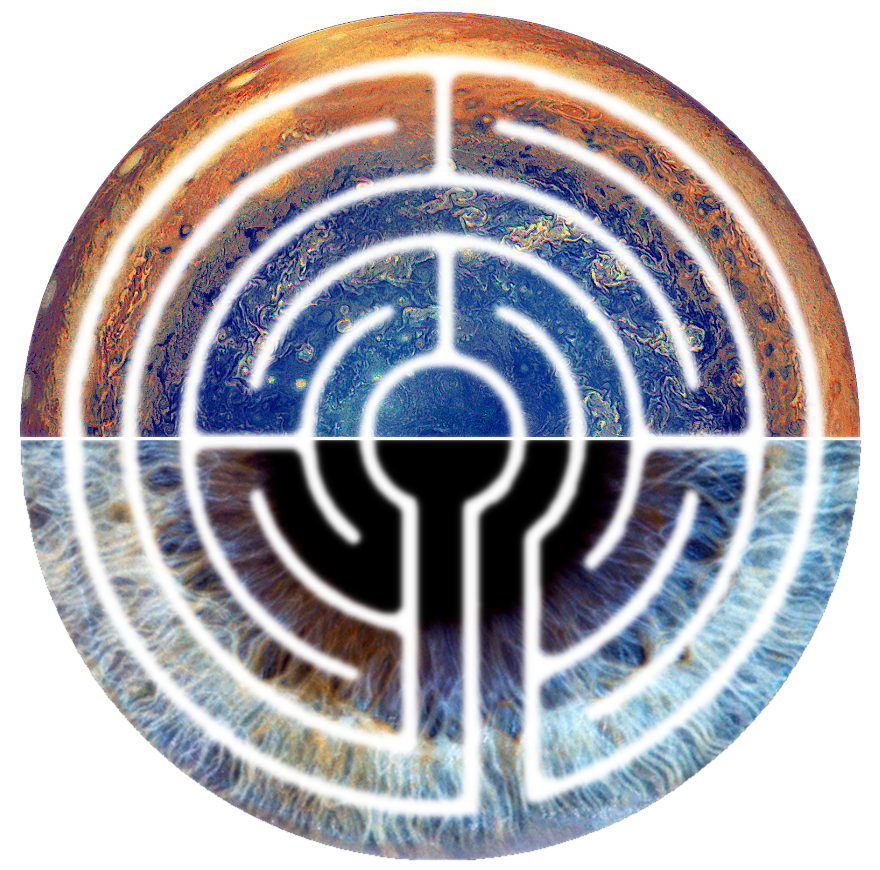
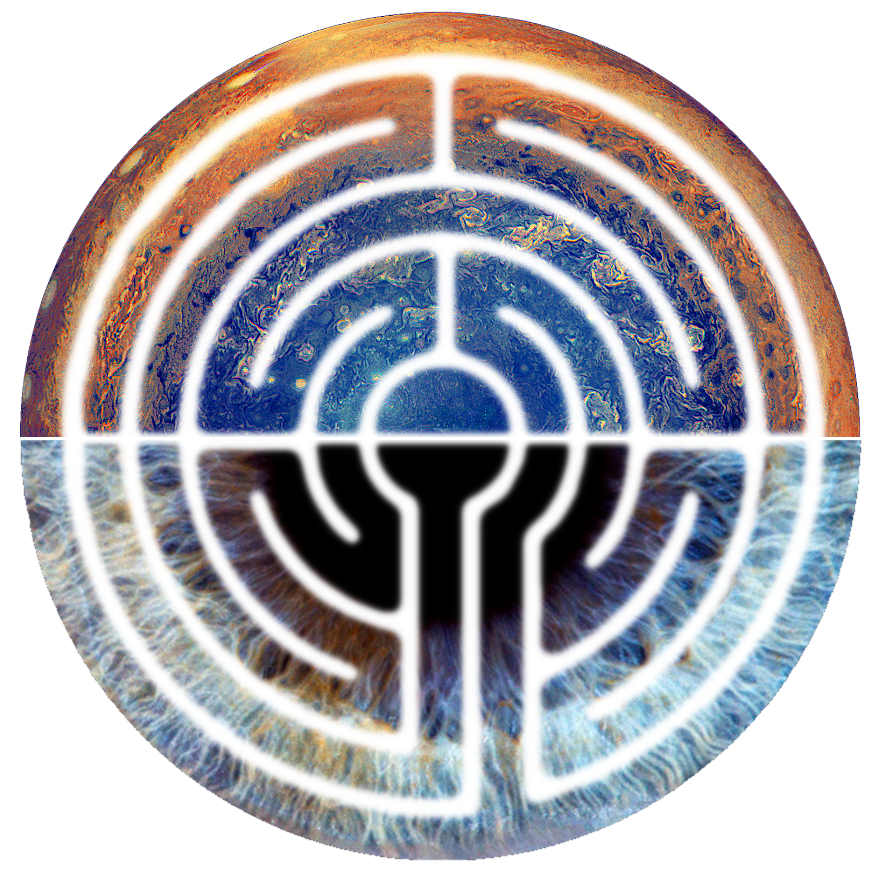
re

diff --git a/CSS/style.css b/CSS/style.css
@@ -1,16 +1,122 @@
+/* RESET */
+html, body,
+h1, h2, h3, h4, h5, h6,
+a, p, span,
+em, small, strong,
+sub, sup,
+mark, del, ins, strike,
+abbr, dfn,
+blockquote, q, cite,
+code, pre,
+ol, ul, li, dl, dt, dd,
+div, section, article,
+main, aside, nav,
+header, hgroup, footer,
+img, figure, figcaption,
+address, time,
+audio, video,
+canvas, iframe,
+details, summary,
+fieldset, form, label, legend,
+table, caption,
+tbody, tfoot, thead,
+tr, th, td {
+    margin: 0;
+    padding: 0;
+    border: 0;
+}
+html {
+    font-size: 62.5%;
+}
+
+body {
+    font-size: 1.6rem;
+    line-height: 1.4;
+}
+
 * {
-  box-sizing: border-box;
+    font-family: inherit;
+    font-size: inherit;
+    line-height: inherit;
 }
-html, body {
-  height: 100%;
+
+a,
+a:visited {
+    color: inherit;
+    text-decoration: none;
 }
+article,
+aside,
+footer,
+header,
+nav,
+section,
+main {
+    display: block;
+}
+
+* {
+    box-sizing: border-box;
+}
+
+*:before,
+*:after {
+    box-sizing: inherit;
+}
+table {
+    border-collapse: collapse;
+    border-spacing: 0;
+}
+
+ol,
+ul {
+    list-style: none;
+}
+
+img,
+video {
+    max-width: 100%;
+}
+
+img {
+    border-style: none;
+}
+
+blockquote,
+q {
+    quotes: none;
+}
+
+blockquote:after,
+blockquote:before,
+q:after,
+q:before {
+    content: "";
+    content: none;
+}
+[hidden] {
+    display: none !important;
+}
+
+[disabled] {
+    cursor: not-allowed;
+}
+
+:focus:not(:focus-visible) {
+    outline: none;
+}
+.srOnly {
+    position: absolute;
+    clip: rect(1px, 1px, 1px, 1px);
+    left: -9999px;
+    top: -9999px;
+}
+
+/* MAIN CSS */
+
 body {
   font-family: 'Playfair Display', serif;
   color: white;
-}
-a {
-  text-decoration: none;
-  color: inherit;
 }
 #wrapper {
   width: 100%;
@@ -32,9 +138,6 @@ a {
 #wrapper #mainHeader {
   width: 100%;
   margin: 2em 0 0;
-}
-#mainHeader h1 {
-  display: none;
 }
 #mainHeader #mainNav {
   height: 100%;
@@ -274,7 +377,7 @@ input#lightInput:checked ~ #wrapper .circleIcon .circle {
   border: 2px solid black;
 }
 input#lightInput:checked ~ #wrapper .clearSections {
-  background: black;
+  background-color: rgb(20, 24, 54);
 }
 
 
@@ -293,9 +396,9 @@ input#lightInput:checked ~ #wrapper .clearSections {
 }
 #introMessage h2 {
   position: relative;
-  top: 50px;
+  top: 35px;
   text-transform: uppercase;
-  font-size: 1.6rem;
+  font-size: 2.4rem;
   color: white;
   mix-blend-mode: difference;
   z-index: 10;
@@ -303,7 +406,7 @@ input#lightInput:checked ~ #wrapper .clearSections {
 #introMessage h2::before {
   content: "";
   display: block;
-  font-size: 2.2rem;
+  font-size: 3.4rem;
   margin: 0 auto;
   color: rgb(221, 182, 78);
 }
@@ -323,7 +426,7 @@ input#lightInput:checked ~ #wrapper .clearSections {
 #mlSection #mlImg {
   width: 100%;
   height: 500px;
-  background-image: url("../images/circleLab3.png");
+  background-image: url("../images/circleLab.png");
   background-position: center center;
   background-size: 300px auto;
   background-repeat: no-repeat;
@@ -335,7 +438,7 @@ input#lightInput:checked ~ #wrapper .clearSections {
   left: 0;
   right: 0;
   width: 90%;
-  height: 70px;
+  height: 40px;
   max-width: 600px;
   color: black;
   background: rgba(255, 255, 255, .9);
@@ -344,7 +447,7 @@ input#lightInput:checked ~ #wrapper .clearSections {
   outline: 1px solid black;
   outline-offset: -5px;
   padding: 5px 10px;
-  font-size: 18px;
+  font-size: 2.2rem;
   margin: 0 auto;
   transition: margin 0.3s ease-in-out;
   transition: height 0.3s ease-in-out;
@@ -364,13 +467,14 @@ input#lightInput:checked ~ #wrapper .clearSections {
 #mainSection aside {
   width: 100%;
   margin: 0 auto;
-  padding: 1rem 1.4rem;
-  font-size: 1.2rem;
+  padding: 2.5rem 1.4rem;
+  font-size: 2rem;
 }
 #mainSection aside blockquote {
   background-color: rgba(0, 0, 0, .1);
   padding: 2.2rem 1.4rem;
-  font-size: 1.4rem;
+  margin: 2.2rem 0;
+  font-size: 2rem;
   line-height: 2.4rem;
   outline: 1px solid black;
   outline-offset: 5px;
@@ -386,6 +490,7 @@ input#lightInput:checked ~ #wrapper .clearSections {
 #mainSection aside .iconsBox {
   outline: 1px solid black;
   outline-offset: 5px;
+  margin: 2.2rem 0;
 }
 #mainSection aside .iconsBox .iconsUl {
   display: flex;
@@ -425,7 +530,7 @@ input#lightInput:checked ~ #wrapper .clearSections {
   left: 0;
   right: 0;
   width: 90%;
-  height: 70px;
+  height: 40px;
   max-width: 600px;
   color: black;
   background: rgba(255, 255, 255, .9);
@@ -434,7 +539,7 @@ input#lightInput:checked ~ #wrapper .clearSections {
   outline: 1px solid black;
   outline-offset: -5px;
   padding: 5px 10px;
-  font-size: 18px;
+  font-size: 2.2rem;
   margin: 0 auto;
   transition: margin 0.3s ease-in-out;
   transition: height 0.3s ease-in-out;
@@ -478,7 +583,7 @@ input#lightInput:checked ~ #wrapper .clearSections {
   left: 0;
   right: 0;
   width: 90%;
-  height: 70px;
+  height: 40px;
   max-width: 600px;
   color: black;
   background: rgba(255, 255, 255, .9);
@@ -487,7 +592,7 @@ input#lightInput:checked ~ #wrapper .clearSections {
   outline: 1px solid black;
   outline-offset: -5px;
   padding: 5px 10px;
-  font-size: 18px;
+  font-size: 2.2rem;
   margin: 0 auto;
   transition: margin 0.3s ease-in-out;
   transition: height 0.3s ease-in-out;
@@ -503,6 +608,11 @@ input#lightInput:checked ~ #wrapper .clearSections {
 }
 #appsSection #appsImg {
   height: 500px;
+  width: 100%;
+  background-image: url("../images/check2.png");
+  background-position: center center;
+  background-repeat: no-repeat;
+  background-size: 400px auto;
 }
 #wrapper #appsAside {
   display: none;
@@ -516,10 +626,10 @@ input#lightInput:checked ~ #wrapper .clearSections {
   background-color: rgba(0, 0, 0, .1);
 }
 #mainFooter #personalQuote p {
-  font-size: 1rem;
+  font-size: 1.8rem;
 }
 #personalQuote p:first-child {
-  font-size: .8rem;
+  font-size: 2.8rem;
 }
 #personalQuote #footerIconBox {
   display: inline-block;

diff --git a/index.html b/index.html
@@ -4,7 +4,6 @@
   <meta charset="UTF-8">
   <meta name="viewport" content="width=device-width, initial-scale=1.0">
   <meta http-equiv="X-UA-Compatible" content="ie=edge">
-  <link rel="stylesheet" href="CSS/normalize.css">
   <link href="https://fonts.googleapis.com/css?family=Playfair+Display+SC:700" rel="stylesheet">
   <link rel="stylesheet" href="CSS/style.css">
   <link rel="stylesheet" href="https://use.fontawesome.com/releases/v5.5.0/css/all.css" integrity="sha384-B4dIYHKNBt8Bc12p+WXckhzcICo0wtJAoU8YZTY5qE0Id1GSseTk6S+L3BlXeVIU" crossorigin="anonymous">
@@ -19,7 +18,7 @@
   <!-- End of light/Dark -->
   <div id="wrapper">
     <header id="mainHeader">
-      <h1>Ángel Casas Pescador</h1>
+      <h1 class="srOnly">Ángel Casas Pescador</h1>
       <nav id="mainNav">
         <a href="#wrapper">
           <div class="circleIcon">
@@ -109,7 +108,8 @@
             <a href="https://www.brainyquote.com/quotes/milton_friedman_851204"><span>“</span>The one thing that's missing, but that will soon be developed, is a reliable e-cash, a method whereby on the Internet you can transfer funds from A to B, without A knowing B or B knowing A.<span>”</span><br>
             - Milton Friedman 1999 -</a>
           </blockquote>
-          <p></p>
+          <p>The best way to learn about any new technology is to inmerse yourself in it by tring it out!<br>
+          This is the reason I decided to write down my experience with Bitcoin and to bring awareness about its capabilities and downsides.</p>
           <div class="iconsBox">
             <ul class="iconsUl">
               <li><img src="" alt=""><br>Earn</li>
@@ -139,10 +139,10 @@
           <p></p>
           <div class="iconsBox">
             <ul class="iconsUl">
-              <li><img src="" alt=""><br>Earn</li>
-              <li><img src="" alt=""><br>Transact</li>
-              <li><img src="" alt=""><br>Hodl</li>
-              <li><img src="" alt=""><br>Spend</li>
+              <a href="https://angel-casas.github.io/Checkbox/index-4.html"><li><img src="./images/check.png" alt=""><br>Check</li></a>
+              <li><img src="" alt=""><br>AI</li>
+              <li><img src="" alt=""><br>Under Construction</li>
+              <li><img src="" alt=""><br>Under Construction</li>
             </ul>
           </div>
         </aside>
